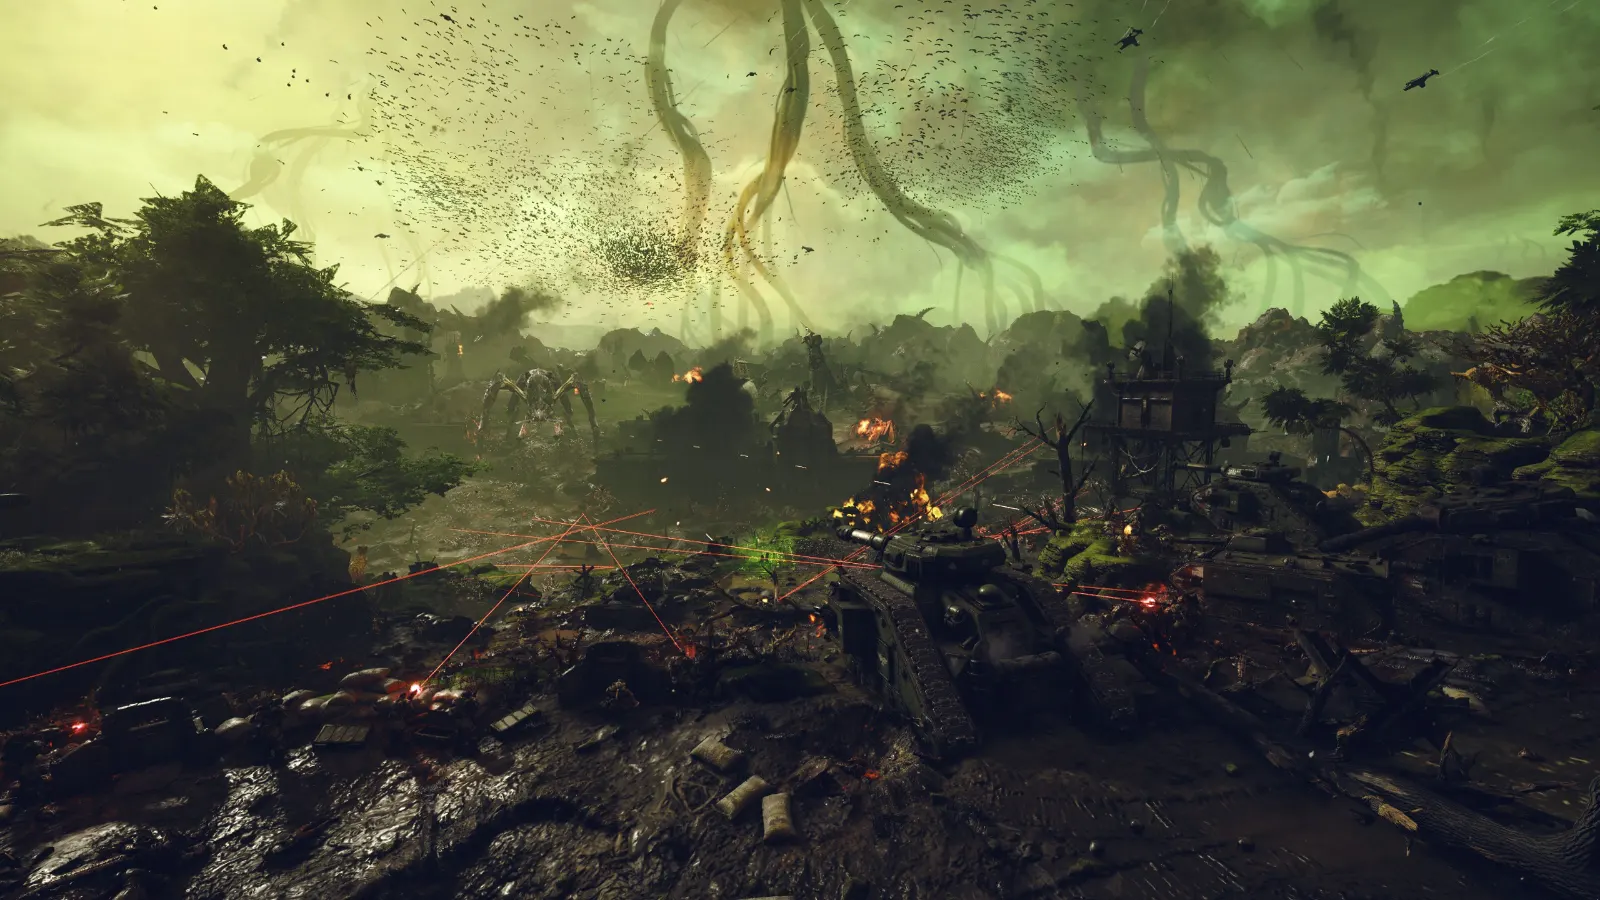
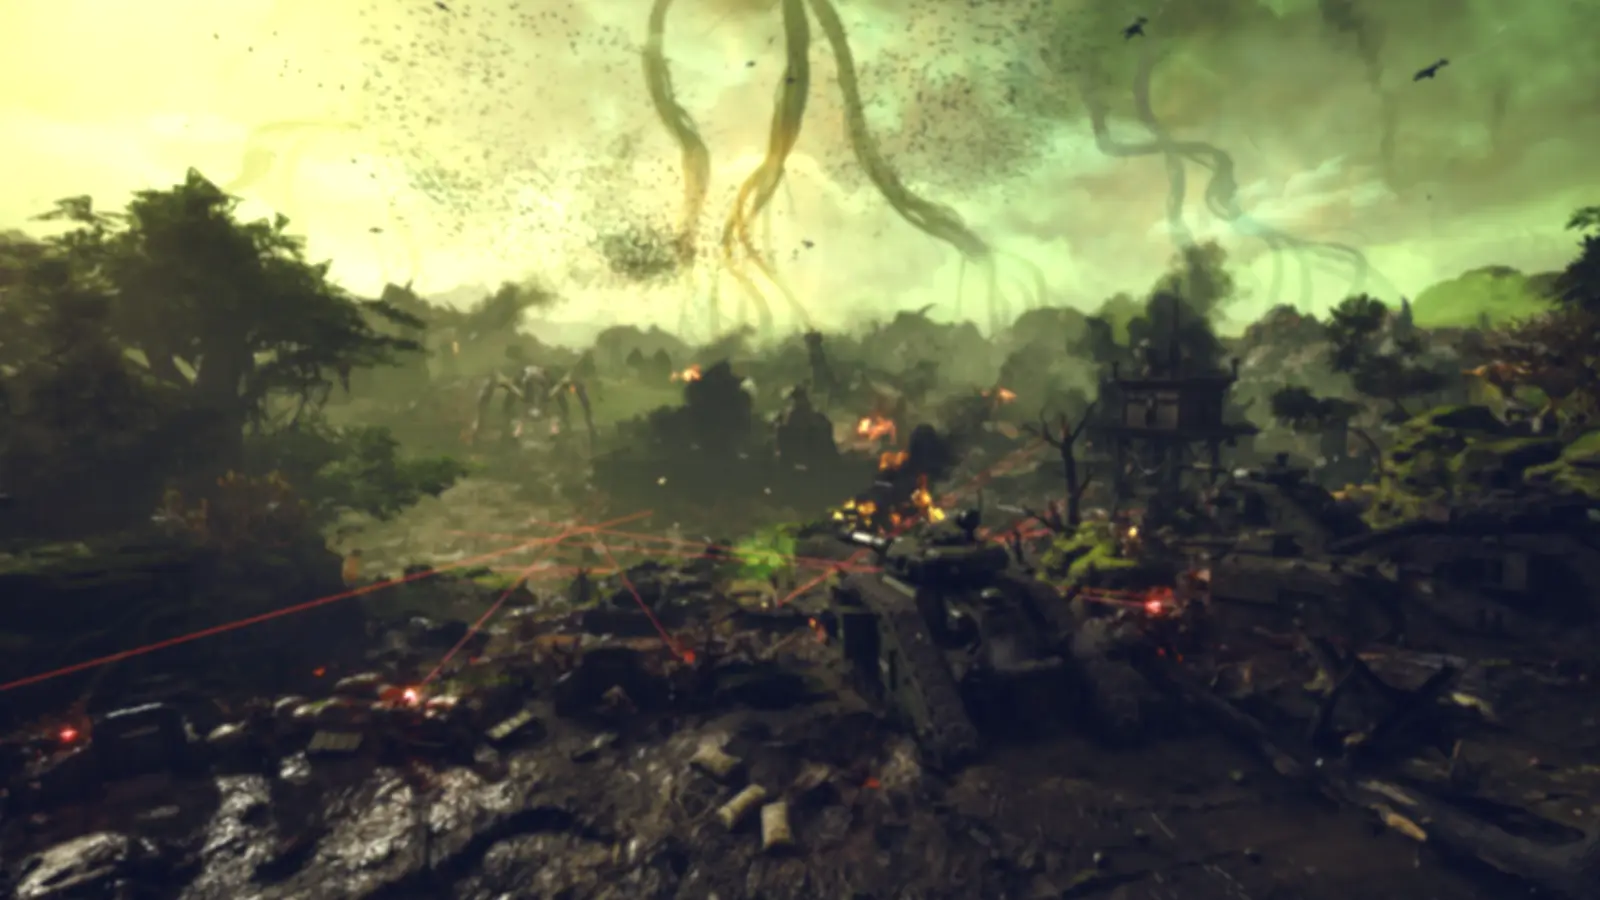
fix(deathwatch): Recruitment and the hub after the second review (#38)
- Backdrops: no filter on the moving layer any more, which a phone could repaint every frame. The light blur and
  brightness are baked into the pictures, all six now 1600px WebPs (286 KB together, from about 1 MB; bg-hub 55 KB).
  A test holds that no backdrop rule sets a filter.
- After a tab change the focus goes to the new view's heading, or to the sheet when the view has none (loading,
  empty, an error); a later tab change wins, and a missing requestAnimationFrame no longer throws. The focus tests
  attach to the document and clean up after themselves.
- Terms of Service: a section without a title reads "Section 1", with no dash. Requirements: a block without a
  title still shows its requirements. A value that is not text keeps the default instead of blanking it.
- A hub card's focus ring sits 7px in, so its corners clear the 10px chamfer; the test checks that geometry.
- Contrast: a darker veil behind the hub's heading, and lighter tagline and prompt. Measured on the backdrop's
  brightest pixels behind each line at 320, 360, 390, 430 and 500px: every line 5.5:1 or more. The Hall of Relics'
  text sits on its stone panels: 4.9:1 or more at 320, 500 and 1440px.
- The spoiler's look is only in deathwatch.css now (the copy in recruitment.css is gone).

diff --git a/src/views/deathwatch/DeathwatchArea.test.js b/src/views/deathwatch/DeathwatchArea.test.js
@@ -1,5 +1,5 @@
 // @vitest-environment jsdom
-import { describe, it, expect, vi, beforeEach } from 'vitest'
+import { describe, it, expect, vi, beforeEach, onTestFinished } from 'vitest'
 import { h } from 'vue'
 import { readFileSync } from 'node:fs'
 import { fileURLToPath } from 'node:url'
@@ -229,15 +229,49 @@ describe('DeathwatchArea', () => {
   })
 
   // Following a link inside a view rebuilds the sheet; the keyboard's focus must not fall back to the top.
+  // jsdom only focuses an element in the document: the area is attached, and taken out again after each test.
+  const attached = async (path) => {
+    const at = await mountAt(path)
+    document.body.appendChild(at.w.element)
+    onTestFinished(() => {
+      at.w.unmount()
+      document.body.replaceChildren()
+    })
+    return at
+  }
+  const until = async (ok) => {
+    for (let i = 0; i < 60 && !ok(); i++) await new Promise((r) => setTimeout(r, 20))
+  }
+
   it("moves the keyboard's focus to the new view's heading when the tab changes", async () => {
-    const { w, router } = await mountAt('/deathwatch/eventtracker/standings')
-    document.body.appendChild(w.element.parentNode ?? w.element)
+    const { w, router } = await attached('/deathwatch/eventtracker/standings')
     await router.push('/deathwatch/eventtracker/scoring')
     await settle()
-    for (let i = 0; i < 5 && document.activeElement?.tagName !== 'H2'; i++) await new Promise((r) => setTimeout(r, 20))
+    await until(() => document.activeElement?.tagName === 'H2')
     const heading = document.activeElement
     expect(heading.tagName).toBe('H2')
     expect(heading.getAttribute('tabindex')).toBe('-1')
     expect(w.get('.dw-area-sheet').element.contains(heading)).toBe(true)
+  })
+
+  it('gives the focus to the sheet when the new view has no heading', async () => {
+    const { w, router } = await attached('/deathwatch/eventtracker/standings')
+    override.loader = async () => ({ default: { render: () => h('p', 'nothing to head') } })
+    await router.push('/deathwatch/eventtracker/scoring')
+    await settle()
+    await until(() => document.activeElement?.classList.contains('dw-area-sheet'))
+    expect(document.activeElement).toBe(w.get('.dw-area-sheet').element)
+    expect(document.activeElement.getAttribute('tabindex')).toBe('-1')
+  })
+
+  it('moves the focus without requestAnimationFrame too', async () => {
+    vi.stubGlobal('requestAnimationFrame', undefined)
+    onTestFinished(() => vi.unstubAllGlobals())
+    const { router } = await attached('/deathwatch/eventtracker/standings')
+    override.loader = async () => ({ default: { render: () => h('p', 'nothing to head') } })
+    await router.push('/deathwatch/eventtracker/scoring')
+    await settle()
+    await until(() => document.activeElement?.classList.contains('dw-area-sheet'))
+    expect(document.activeElement.classList).toContain('dw-area-sheet')
   })
 })

diff --git a/src/views/deathwatch/DeathwatchHub.vue b/src/views/deathwatch/DeathwatchHub.vue
@@ -81,7 +81,8 @@ const recruitmentTo = resolveArea({ area: 'recruitment' }).canonical
   gap: 0.5rem;
   padding: 1.2rem 1.5rem;
   text-align: center;
-  background: radial-gradient(ellipse at center, rgb(6 9 6 / 0.7), transparent 72%);
+  /* A dark veil behind the heading, so its small lines hold 4.5:1 on the bright backdrop at any width. */
+  background: radial-gradient(ellipse at center, rgb(6 9 6 / 0.88) 35%, rgb(6 9 6 / 0.6) 60%, transparent 82%);
 }
 .dw-hub-crest {
   width: clamp(70px, 12.5dvh, 160px);
@@ -109,14 +110,14 @@ const recruitmentTo = resolveArea({ area: 'recruitment' }).canonical
   margin: 0;
   font-style: italic;
   font-weight: 500;
-  color: var(--dw-muted);
+  color: #cdd6ce;
 }
 .dw-hub-prompt {
   margin: 0.6rem 0 0;
   font: 600 0.8rem / 1.2 var(--dw-font-cond);
   letter-spacing: 0.22em;
   text-transform: uppercase;
-  color: var(--dw-silver);
+  color: var(--dw-ink);
 }
 /* Two wide cards to a row from 760px, one below: each the area's art on the left, its name and line on the right,
    and an arrow. Thin chamfered frames, as the area's panels. */
@@ -277,10 +278,11 @@ const recruitmentTo = resolveArea({ area: 'recruitment' }).canonical
 .dw-card:active {
   transform: scale(0.99);
 }
-/* The corners are clipped, which also clips an outline drawn outside the card: draw the ring inside it, as .dw-btn. */
+/* The corners are clipped, which also clips an outline drawn outside the card: draw the ring inside it, as .dw-btn,
+   far enough in (2px thick, from 5px to 7px) that its own corners clear the 10px chamfer (x + y = 10). */
 .dw-card:focus-visible {
   outline: 2px solid var(--dw-accent);
-  outline-offset: -4px;
+  outline-offset: -7px;
 }
 /* A narrow phone: the picture gives way, so the longest names (ARMOURING, CHRONICLES) fit beside the arrow. */
 @media (max-width: 420px) {

diff --git a/src/views/deathwatch/DeathwatchArea.vue b/src/views/deathwatch/DeathwatchArea.vue
@@ -44,18 +44,22 @@ const view = computed(() => {
 
 // A tab change rebuilds the sheet, which would drop the keyboard's focus back to the top of the document: move it to
 // the new view's heading instead, once the view has arrived (its chunk may still be on its way; a few frames at most).
+// A view with no heading yet (loading, empty, an error) gives the focus to the sheet itself. A later tab change wins.
 const sheet = ref(null)
-watch(viewKey, async () => {
-  for (let frame = 0; frame < 30; frame++) {
+const frame = () => new Promise((r) => (typeof requestAnimationFrame === 'function' ? requestAnimationFrame(r) : setTimeout(r, 16)))
+const focusOn = (el) => {
+  el.setAttribute('tabindex', '-1')
+  el.focus({ preventScroll: true })
+}
+watch(viewKey, async (key) => {
+  for (let tries = 0; tries < 30; tries++) {
     await nextTick()
+    if (viewKey.value !== key) return
     const heading = sheet.value?.querySelector('h1, h2')
-    if (heading) {
-      heading.setAttribute('tabindex', '-1')
-      heading.focus({ preventScroll: true })
-      return
-    }
-    await new Promise((r) => requestAnimationFrame(r))
+    if (heading) return focusOn(heading)
+    await frame()
   }
+  if (viewKey.value === key && sheet.value) focusOn(sheet.value)
 })
 </script>
 
@@ -162,7 +166,8 @@ watch(viewKey, async () => {
   padding: 1.2rem 1rem 1.6rem;
 }
 /* The heading the focus is moved to on a tab change: it is no control, so it shows no ring of its own. */
-.dw-area-sheet :deep(:is(h1, h2)[tabindex='-1']:focus) {
+.dw-area-sheet :deep(:is(h1, h2)[tabindex='-1']:focus),
+.dw-area-sheet[tabindex='-1']:focus {
   outline: none;
 }
 .dw-area-restricted {

diff --git a/src/components/deathwatch/deathwatch.css.test.js b/src/components/deathwatch/deathwatch.css.test.js
@@ -85,10 +85,10 @@ describe('deathwatch.css', () => {
     const files = {
       hub: 'bg-hub.webp',
       eventtracker: 'bg-tracker.webp',
-      armouringhall: 'bg-armouring.jpg',
+      armouringhall: 'bg-armouring.webp',
       chronicles: 'bg-chronicles.webp',
       hallofrelics: 'bg-relics.webp',
-      manage: 'bg-manage.jpg',
+      manage: 'bg-manage.webp',
     }
     for (const [area, file] of Object.entries(files)) {
       const rule = css.match(new RegExp(`\\.dw\\[data-area='${area}'\\]\\s+\\.dw-backdrop::after\\s*\\{([^}]*)\\}`))?.[1] ?? ''
@@ -137,5 +137,18 @@ describe('a spoiler in a page text', () => {
   it('reveals on hover only where a pointer can hover', () => {
     expect(css).toMatch(/@media \(hover: hover\) and \(pointer: fine\)\s*\{\s*\.dw \.nm-spl:hover\s*\{\s*filter:\s*none;/)
     expect(css.replace(/@media \(hover: hover\)[^{]*\{\s*\.dw \.nm-spl:hover/, '')).not.toMatch(/nm-spl:hover/)
+  })
+})
+
+// The backdrop layer moves all the time (dw-drift, dw-flicker); a filter on it could be repainted every frame on a
+// phone. Its blur and brightness are baked into the pictures instead.
+describe('the backdrop layer', () => {
+  it('moves without a filter of its own', () => {
+    const layer = css.match(/(^|\n)\.dw-backdrop::after\s*\{([^}]*)\}/)?.[2] ?? ''
+    expect(layer).toContain('animation')
+    expect(layer).not.toMatch(/filter\s*:/)
+  })
+  it('is never filtered from an area rule either', () => {
+    for (const [, body] of css.matchAll(/\.dw-backdrop::after\s*\{([^}]*)\}/g)) expect(body).not.toMatch(/filter\s*:/)
   })
 })

diff --git a/src/lib/deathwatch/recruitment.test.js b/src/lib/deathwatch/recruitment.test.js
@@ -63,10 +63,17 @@ describe('termsOfService', () => {
     expect(tos.end).toEqual([])
   })
 
-  it('drops a section the data blanks, and survives texts that are not text', () => {
+  it('drops a section the data blanks, and keeps the default for a value that is not text', () => {
     expect(termsOfService({ ts6: '' }).sections).toHaveLength(5)
-    expect(termsOfService({ ts1: 42, ts_h: null }).head).toEqual([])
+    const odd = termsOfService({ ts1: 42, ts_h: null })
+    expect(odd.head).toEqual(termsOfService().head)
+    expect(odd.sections[0]).toEqual(termsOfService().sections[0])
     expect(termsOfService('nonsense').sections).toHaveLength(6)
+  })
+
+  it('keeps a section with clauses but no title', () => {
+    const s = termsOfService({ ts1: '\nfirst clause' }).sections[0]
+    expect([s.n, s.title, s.subs[0].clauses.length]).toEqual([1, [], 1])
   })
 
   // Section 3 refers to "Section 4": blanking an earlier section must not renumber the rest.
@@ -102,6 +109,10 @@ describe('requirements', () => {
     ])
     expect(b.notes.map(plain)).toEqual(['below'])
     expect(requirements({ rq2: '' }).blocks).toHaveLength(2)
+    // A block with no title still shows its requirements; a value that is not text keeps the default.
+    const untitled = requirements({ rq1: '\n\n- one' }).blocks[0]
+    expect([untitled.title, untitled.items.map((i) => plain(i.segs))]).toEqual([[], ['one']])
+    expect(requirements({ rq1: 7 }).blocks[0]).toEqual(requirements().blocks[0])
   })
 })
 

diff --git a/src/components/deathwatch/deathwatch.css b/src/components/deathwatch/deathwatch.css
@@ -80,10 +80,10 @@ body:has(.dw-sheet[open]) {
 .dw-backdrop::after {
   content: '';
   position: absolute;
-  /* A light blur and a touch of light, so the picture stays behind the page yet reads; reaching past the window keeps its edges from fading. */
-  inset: -6px;
+  /* No filter here: the layer moves all the time, and a phone could repaint a filter every frame. The pictures
+     carry their light blur and brightness in the files (1600px WebPs). */
+  inset: 0;
   background: center / cover no-repeat;
-  filter: blur(2.1px) brightness(1.2);
   opacity: var(--dw-wm);
   animation:
     dw-drift 40s ease-in-out infinite alternate,
@@ -102,7 +102,7 @@ body:has(.dw-sheet[open]) {
   --dw-wm: 0.55;
 }
 .dw[data-area='armouringhall'] .dw-backdrop::after {
-  background-image: url('./img/bg-armouring.jpg');
+  background-image: url('./img/bg-armouring.webp');
 }
 .dw[data-area='chronicles'] {
   --dw-wm: 0.6;
@@ -141,7 +141,7 @@ body:has(.dw-sheet[open]) {
   --dw-wm: 0.5;
 }
 .dw[data-area='manage'] .dw-backdrop::after {
-  background-image: url('./img/bg-manage.jpg');
+  background-image: url('./img/bg-manage.webp');
 }
 /* A slow push-in, and a faint firelight flicker. Both are transform or opacity only, so they run on the GPU. */
 @keyframes dw-drift {

diff --git a/src/views/deathwatch/pages/recruitment/recruitment-pages.test.js b/src/views/deathwatch/pages/recruitment/recruitment-pages.test.js
@@ -38,6 +38,11 @@ describe('Terms of Service', () => {
     expect(w.findAll('.rc-s')[2].get('.rc-n').text()).toBe('4.1.1')
   })
 
+  it('shows "Section 1" alone, with no dash, for a section without a title', () => {
+    const w = mountPage(TermsOfService, { ts1: '\nfirst clause' })
+    expect(w.findAll('.rc-s h3')[0].text()).toBe('Section 1')
+  })
+
   it('shows a sub-section title with its marks, and no empty list for a sub-section without clauses', () => {
     const w = mountPage(TermsOfService, { ts1: 'First\n## **Bold** title\n## Empty one' })
     const first = w.findAll('.rc-s')[0]
@@ -65,5 +70,12 @@ describe('Requirements', () => {
     expect(items).toHaveLength(2)
     expect(texts(items[0], '.rc-l')).toEqual(['first note', 'second note'])
     expect(items[1].findAll('.rc-l')).toHaveLength(0)
+  })
+
+  it('shows a block without a title, with no empty heading', () => {
+    const w = mountPage(Requirements, { rq1: '\n\n- one' })
+    const first = w.findAll('.rc-s')[0]
+    expect(first.find('h3').exists()).toBe(false)
+    expect(first.get('.rc-req li').text()).toBe('one')
   })
 })

diff --git a/src/lib/deathwatch/recruitment.js b/src/lib/deathwatch/recruitment.js
@@ -11,7 +11,11 @@ import { inline, whole } from './notables'
 import { RECRUITMENT_TEXTS } from './recruitmentTexts'
 
 const text = (v) => (typeof v === 'string' ? v : '')
-const texts = (tx) => ({ ...RECRUITMENT_TEXTS, ...(tx && typeof tx === 'object' ? tx : {}) })
+// Only text replaces a default: a value of any other type (a number, null) leaves the old site's text in place.
+const texts = (tx) => ({
+  ...RECRUITMENT_TEXTS,
+  ...Object.fromEntries(Object.entries(tx && typeof tx === 'object' ? tx : {}).filter(([, v]) => typeof v === 'string')),
+})
 /** Paragraphs (blank line between), each { quote, segs }: a paragraph that is one *…* from end to end is a quote. */
 const paras = (t) =>
   text(t)
@@ -58,7 +62,7 @@ export function requirements(tx) {
       }
       return { title: inline(title.trim()), lead: inline(lead.trim()), items, notes }
     })
-    .filter((b) => b.title.length)
+    .filter((b) => b.title.length || b.lead.length || b.items.length || b.notes.length)
   const q = text(t.rq_q).trim()
   return { quote: inline(whole(q, 'i') ? q.slice(1, -1) : q), blocks }
 }

diff --git a/src/views/deathwatch/DeathwatchHub.test.js b/src/views/deathwatch/DeathwatchHub.test.js
@@ -98,7 +98,9 @@ describe('DeathwatchHub styles', () => {
   it("shows a card's keyboard focus ring inside its clipped corners", () => {
     const ring = rule('.dw-card:focus-visible')
     expect(ring).toMatch(/outline:\s*2px solid/)
-    expect(Number(ring.match(/outline-offset:\s*(-?\d+)px/)?.[1])).toBeLessThan(0)
+    // Its outer edge, the offset less the width in, must clear the 10px chamfer: a corner at (d, d) is cut while 2d < 10.
+    const inset = -Number(ring.match(/outline-offset:\s*(-?\d+)px/)?.[1]) - Number(ring.match(/outline:\s*(\d+)px/)?.[1])
+    expect(2 * inset).toBeGreaterThanOrEqual(10)
     expect(rule('.dw-card')).toContain('clip-path')
   })
 

diff --git a/src/views/deathwatch/pages/recruitment/terms-of-service.vue b/src/views/deathwatch/pages/recruitment/terms-of-service.vue
@@ -30,7 +30,7 @@ const tos = computed(() => termsOfService(data.cfg.tx))
       <p v-for="(p, i) in tos.intro" :key="i" :class="{ 'rc-q': p.quote }"><Inline :segs="p.segs" /></p>
     </div>
     <section v-for="s in tos.sections" :key="s.n" class="rc-s">
-      <h3>Section {{ s.n }} — <Inline :segs="s.title" /></h3>
+      <h3>Section {{ s.n }}<template v-if="s.title.length"> — <Inline :segs="s.title" /></template></h3>
       <template v-for="(sub, j) in s.subs" :key="j">
         <h4 v-if="sub.title.length">{{ s.n }}.{{ j + 1 }} — <Inline :segs="sub.title" /></h4>
         <ol v-if="sub.clauses.length">

diff --git a/src/views/deathwatch/pages/recruitment/requirements.vue b/src/views/deathwatch/pages/recruitment/requirements.vue
@@ -27,7 +27,7 @@ const rq = computed(() => requirements(data.cfg.tx))
       <p v-if="rq.quote.length" class="rc-sub rc-q"><Inline :segs="rq.quote" /></p>
     </header>
     <section v-for="(b, i) in rq.blocks" :key="i" class="rc-s">
-      <h3><Inline :segs="b.title" /></h3>
+      <h3 v-if="b.title.length"><Inline :segs="b.title" /></h3>
       <p v-if="b.lead.length" class="rc-l"><Inline :segs="b.lead" /></p>
       <ul v-if="b.items.length" class="rc-req">
         <li v-for="(item, j) in b.items" :key="j">
